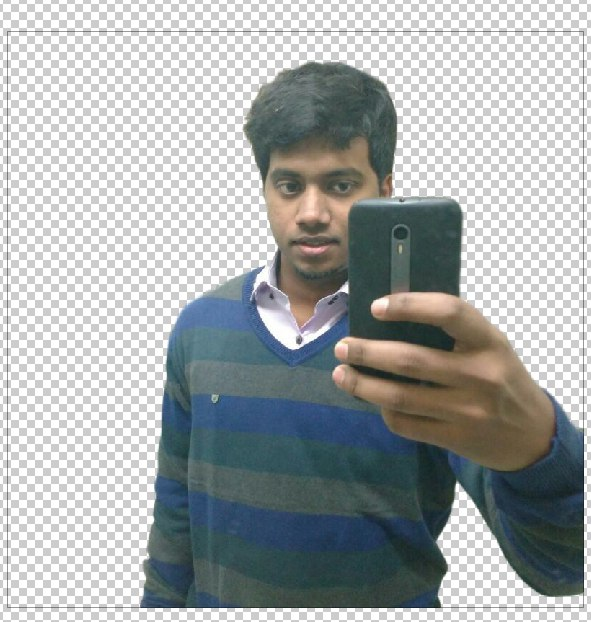
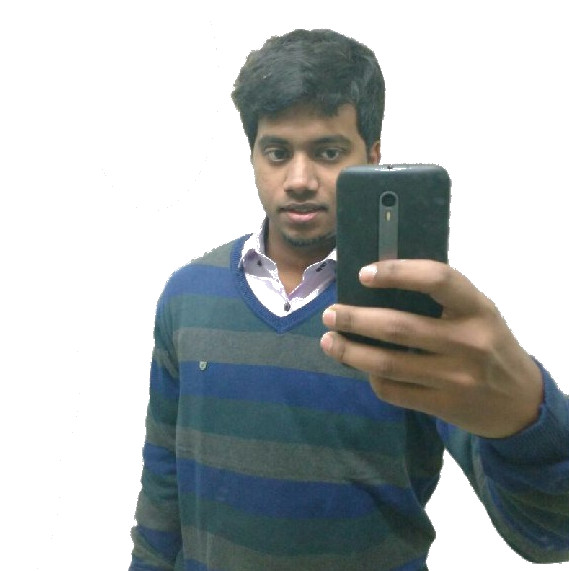
Addig profile pic

diff --git a/index.html b/index.html
@@ -32,22 +32,22 @@
 			<div class="row">
 				<div class="col-sm-4"></div>
 				<div class="col-sm-4">
-					<img src="https://placehold.it/150x150" alt="Its Me" class="img-rounded center-block">
+					<img src="img/profile_pic_3.jpg" alt="Its Me" class="img-rounded center-block profile-pic">
 				</div>
 				<div class="col-sm-4"></div>
 			</div>
 
 			<!-- Body-text -->
 			<div class="row top-buffer-abs-l">
-				<div class="col-sm-1"></div>
-				<div class="col-sm-10 text-center">
+				<div class="col-sm-2"></div>
+				<div class="col-sm-8 text-center">
 					<h1>Don Dennis</h1>
 					<h4>(metastableB)</h4>
 					<p>LorelLorem ipsum Dolore dolore ad in occaecat nulla in deserunt in laboris fugiat culpa aliqua ut. Lorem ipsum Ut minim dolor nisi cillum sunt sed velit ullamco do nisi dolor aliqua sed Ut in consectetur dolore ea proident nulla officia ut dolore deserunt anim id Excepteur amet aute.</p>
 					<p>LorelLorem ipsum Dolore dolore ad in occaecat nulla in deserunt in laboris fugiat culpa aliqua ut. Lorem ipsum Ut minim dolor nisi cillum sunt sed velit ullamco do nisi dolor aliqua sed Ut in consectetur dolore ea proident nulla officia ut dolore deserunt anim id Excepteur amet aute.</p>
 					<p>LorelLorem ipsum Dolore dolore ad in occaecat nulla in deserunt in laboris fugiat culpa aliqua ut. Lorem ipsum Ut minim dolor nisi cillum sunt sed velit ullamco do nisi dolor aliqua sed Ut in consectetur dolore ea proident nulla officia ut dolore deserunt anim id Excepteur amet aute.</p>
 				</div>
-				<div class="col-sm-1"></div>
+				<div class="col-sm-2"></div>
 			</div>
 		</div>
 	</body>

diff --git a/css/style.css b/css/style.css
@@ -15,3 +15,11 @@
 .top-buffer-rel {
 	margin-top:10%;
 }
+
+.profile-pic{
+	max-width:250px;
+}
+
+.container-background {
+	
+}
